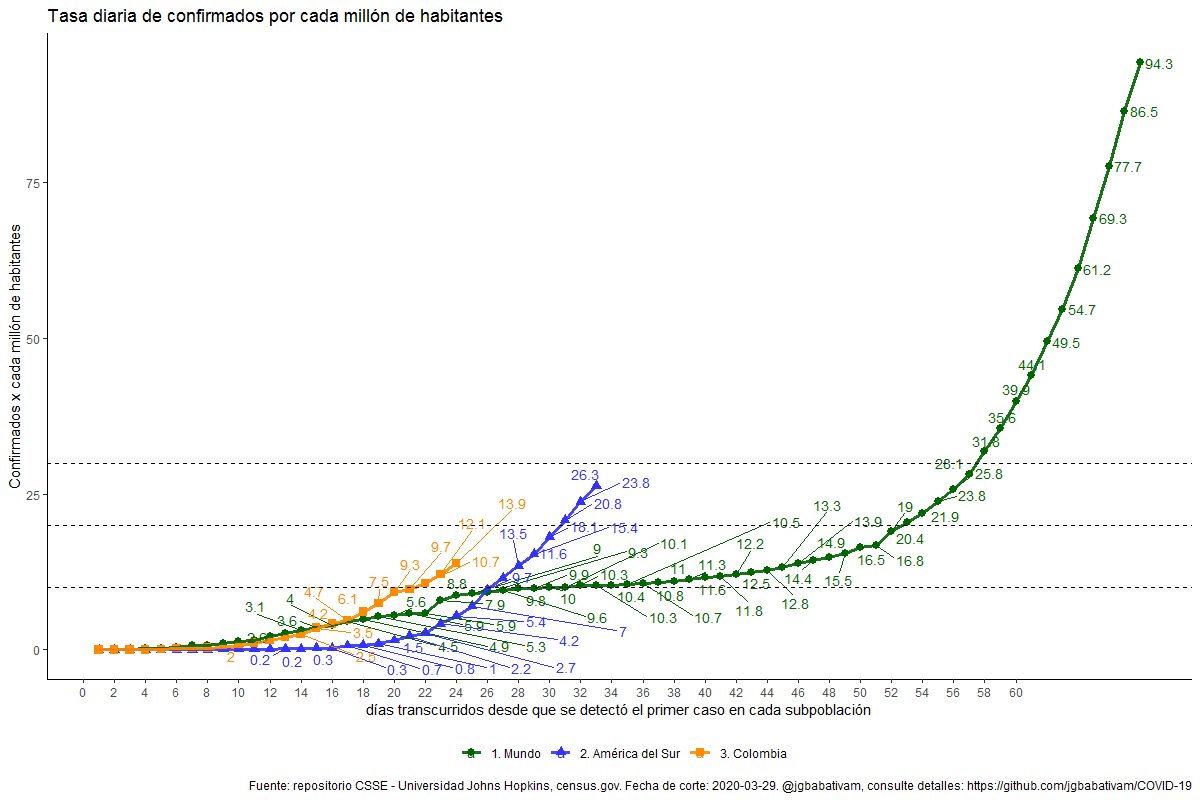
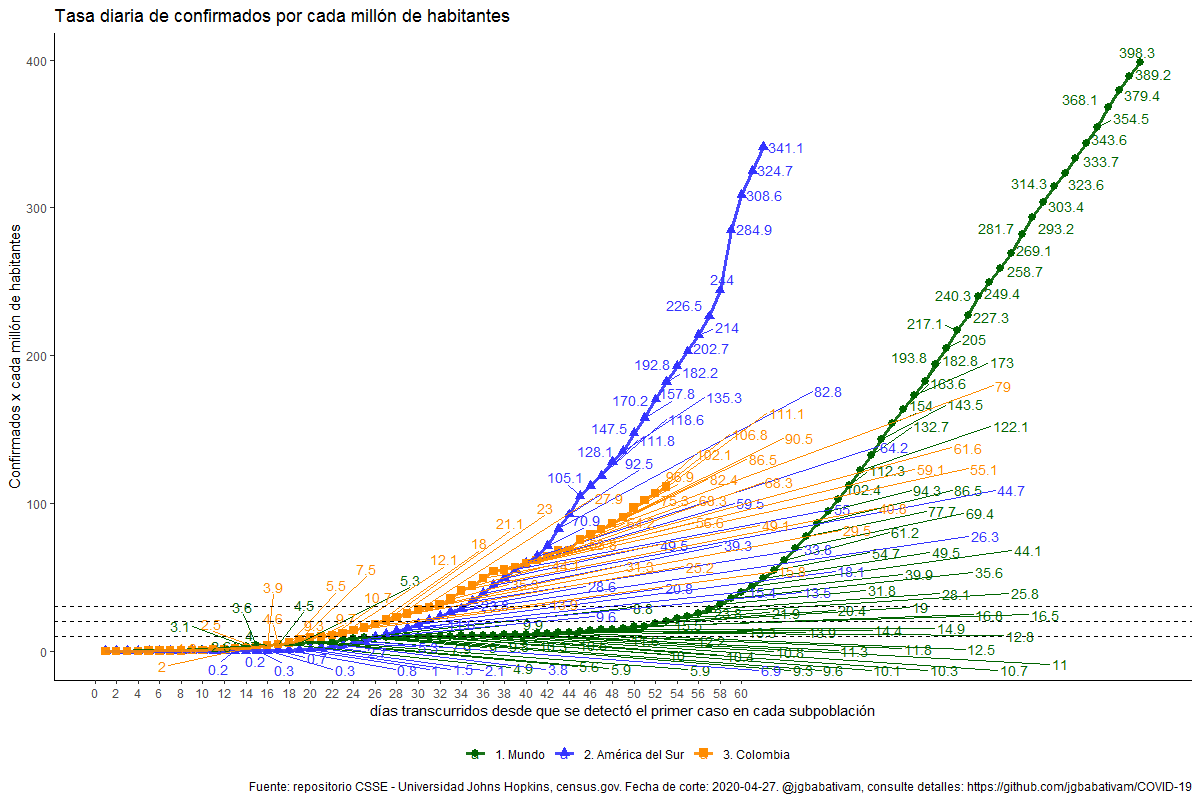
Update apr28

diff --git a/README.md b/README.md
@@ -2,12 +2,7 @@
 
 Giovany Babativa (@jgbabativam, gbabativam@usal.es)
 
-<<<<<<< HEAD
-Los resultados obtenidos en este informe están actualizados al: 29-03-2020
-=======
-Los resultados obtenidos en este informe están actualizados al: 26-03-2020
->>>>>>> 7fd6d7d6c555622bfde06ed8995e29e90503ac08
-
+Los resultados obtenidos en este informe están actualizados al: 28-04-2020
 
 ## Objetivo del recurso
 
@@ -38,6 +33,7 @@ Las tasas de confirmados fueron calculadas con base en la información poblacion
 - Recuerde que este es un recurso académico, los análisis epidemiológicos son más complejos y dependen de diversos factores.
 
 Finalmente recuerde que acá solo se comparan algunos países que me parecieron interesantes, bien sea por su cercanía con Colombia o por la velocidad de propagación que presentó, pero el repositorio cuenta con resultados para todos los países donde se han presentado casos. Si usted lo desea puede usar el código para agregar, retirar o simplemente analizar los países que prefiera.
+
 ## Gráficos específicos para Colombia
 Evolución de casos diarios confirmados por departamento:
 
